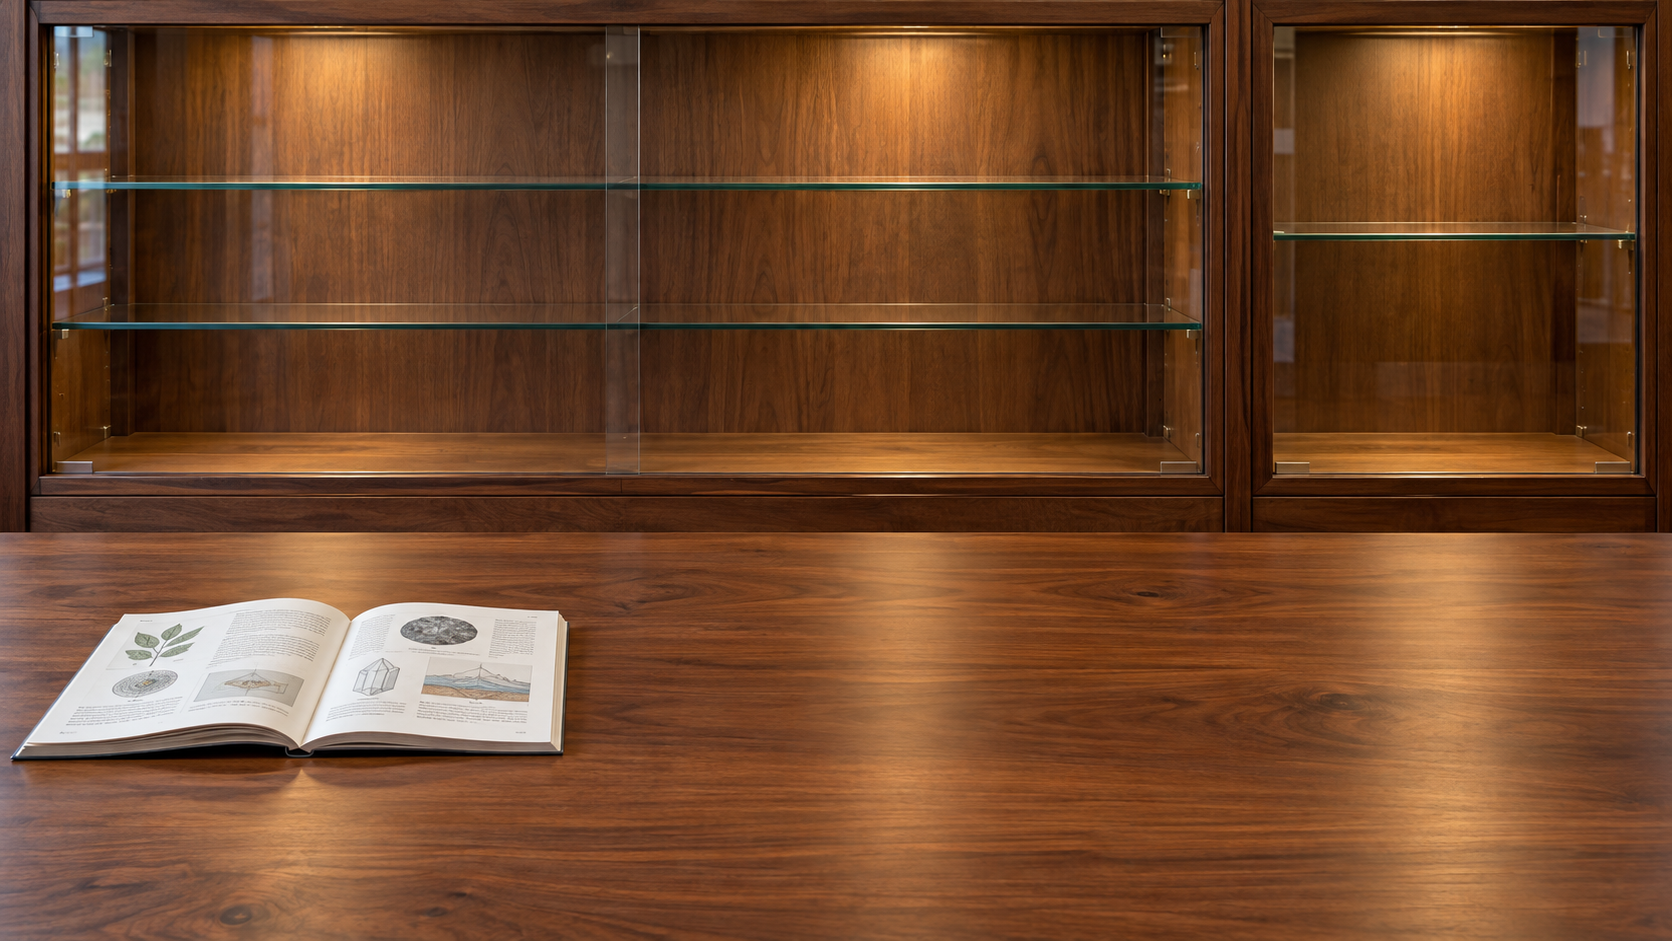
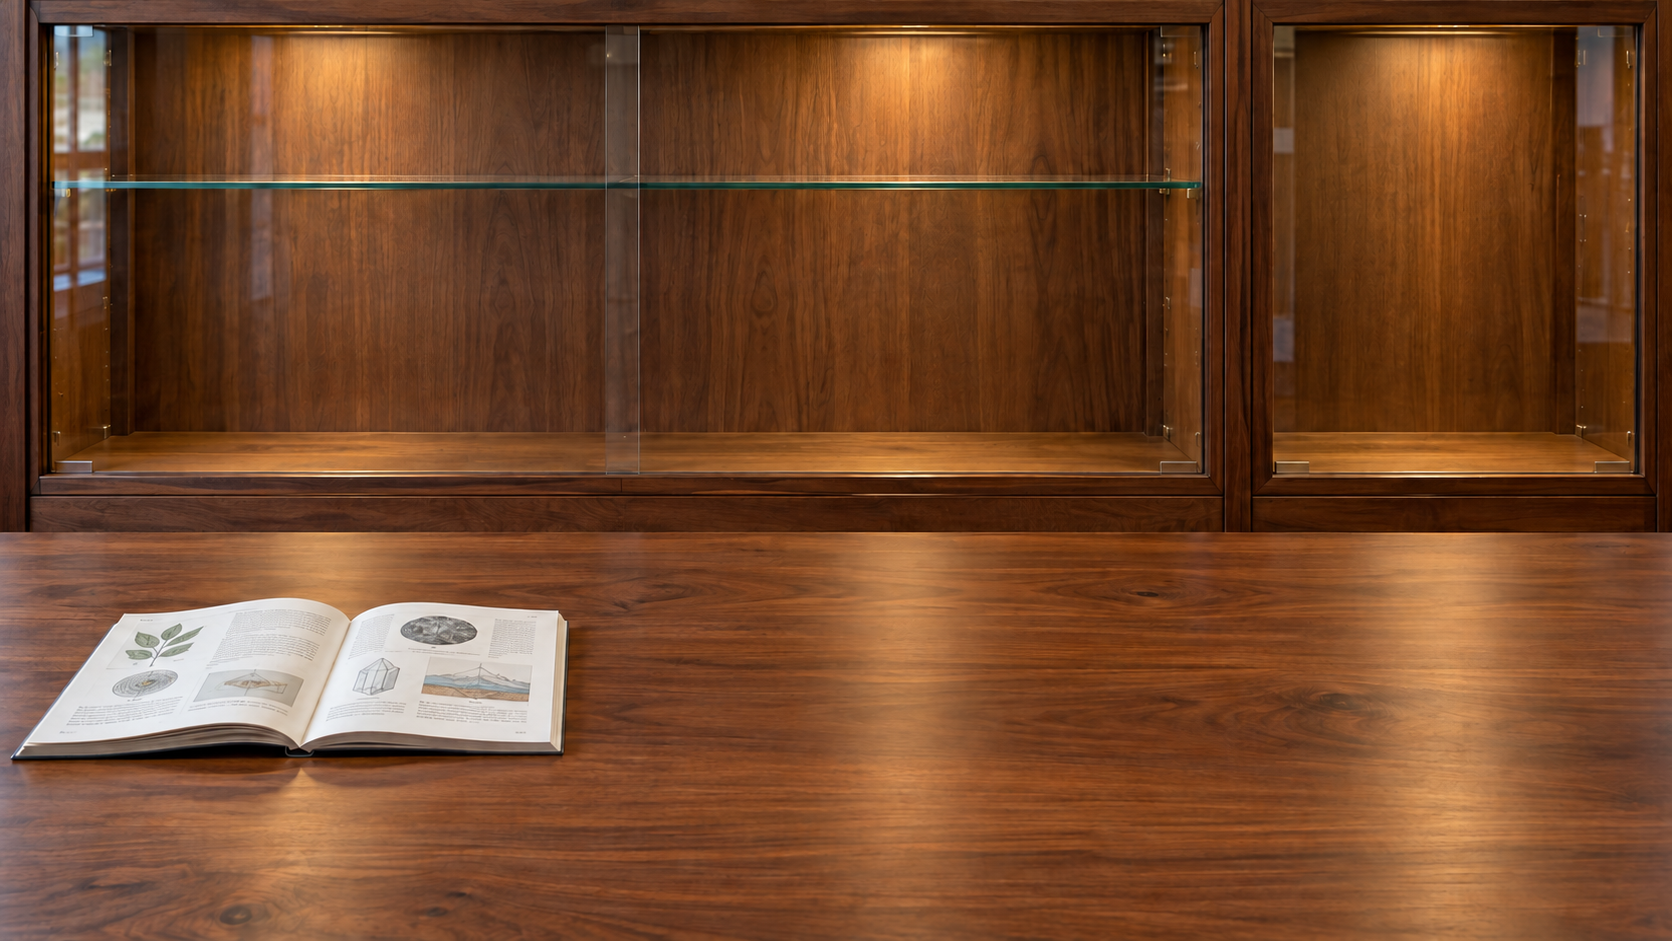
Reduce cabinet shelves to match categories

diff --git a/units/4/parts/4.1/index.html b/units/4/parts/4.1/index.html
@@ -685,7 +685,7 @@
     .cabinet-target { z-index:7; min-height:28px; cursor:pointer; transition:filter .15s,box-shadow .15s,transform .15s; }
     .cabinet-target:hover,.cabinet-target:focus-visible { filter:brightness(1.08); box-shadow:inset 0 1px 0 #fff5d7,0 0 0 3px #ead6a477,0 2px 4px #2b1c1055; outline:none; transform:translateY(-1px); }
     .cabinet-target[data-target="element"] { left:55%; top:18%; }
-    .cabinet-target[data-target="compound"] { left:55%; top:30%; }
+    .cabinet-target[data-target="compound"] { left:55%; top:43%; }
     .cabinet-target[data-target="mixture"] { z-index:8; left:80%; top:2.5%; display:grid; place-items:center; width:17%; min-width:0; min-height:0; height:5.5%; padding:0 6px; border:3px ridge #947348; border-radius:3px; background:linear-gradient(180deg,#f0dfb4 0%,#d0b77f 48%,#a98854 100%); box-shadow:0 3px 6px #21150c88,inset 0 1px #fff1ce; color:#382b1c; font-size:clamp(.88rem,1.35vw,1.12rem); line-height:1; text-align:center; }
     .cabinet-target[data-target="mixture"]:hover,.cabinet-target[data-target="mixture"]:focus-visible { filter:brightness(1.12); box-shadow:0 3px 8px #21150c99,inset 0 1px #fff1ce; outline:2px solid #f3dfba; transform:none; }
     .scene-sample { position:absolute; z-index:4; left:var(--sample-x); top:var(--sample-y); display:grid; grid-template-rows:minmax(0,1fr) 18px; justify-items:center; align-content:end; width:11%; height:14%; padding:0; border:0; background:transparent; cursor:grab; touch-action:none; transition:left .65s cubic-bezier(.2,.75,.25,1),top .65s cubic-bezier(.2,.75,.25,1),width .65s,height .65s,filter .2s,transform .2s; }
